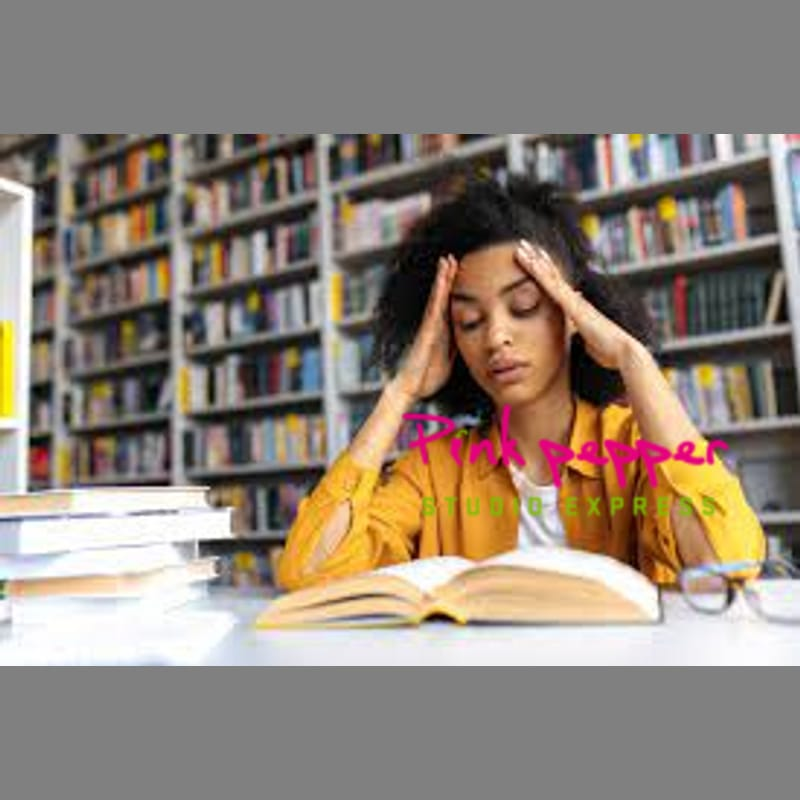
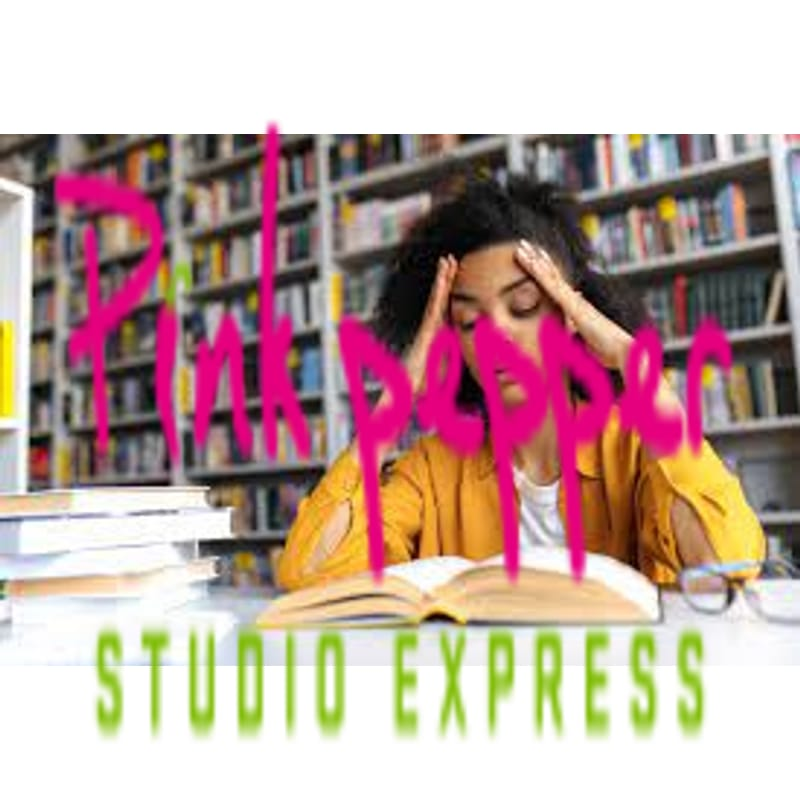
second commi

diff --git a/controllers/adminController.js b/controllers/adminController.js
@@ -120,9 +120,9 @@ async function resizeImage(fileName) {
       .toFormat('jpeg', { mozjpeg: true })
       .composite([
         {
-          input: maindir + '/public/images/overlay.png',
-          top: 300,
-          left: 300,
+          input: maindir + '/public/images/overlayb.png',
+          top: 100,
+          left: 50,
         },
       ])
 
